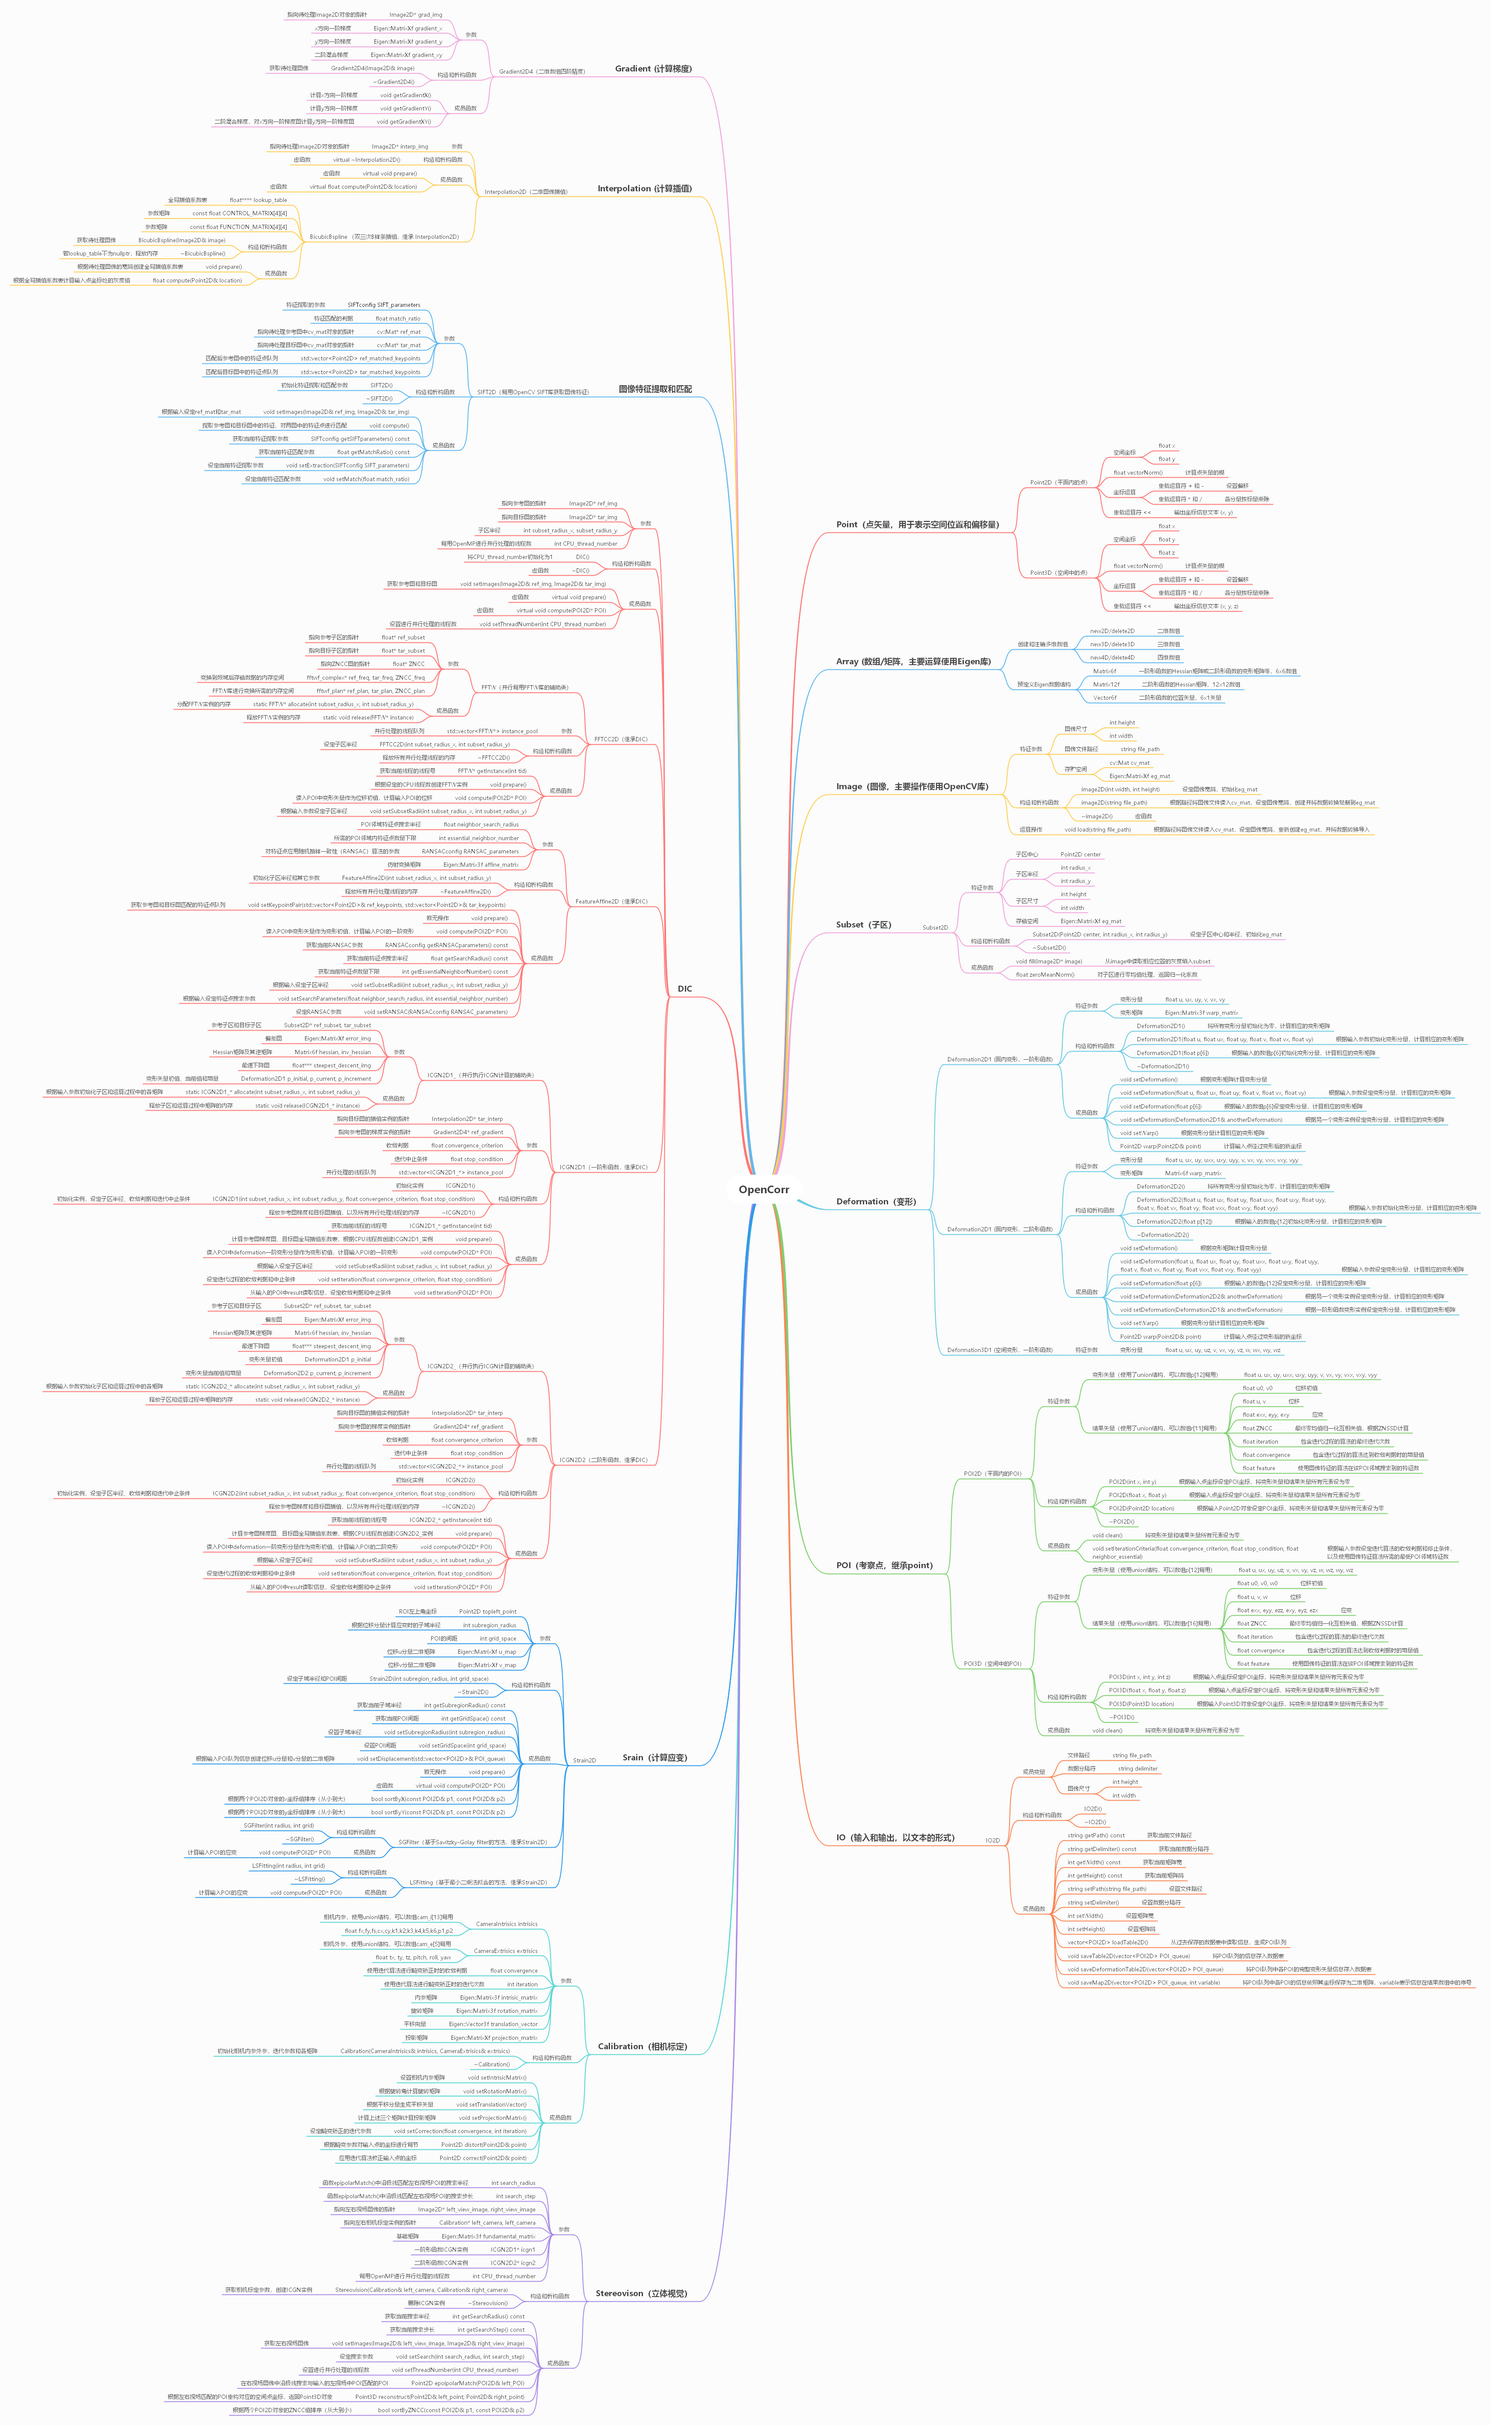
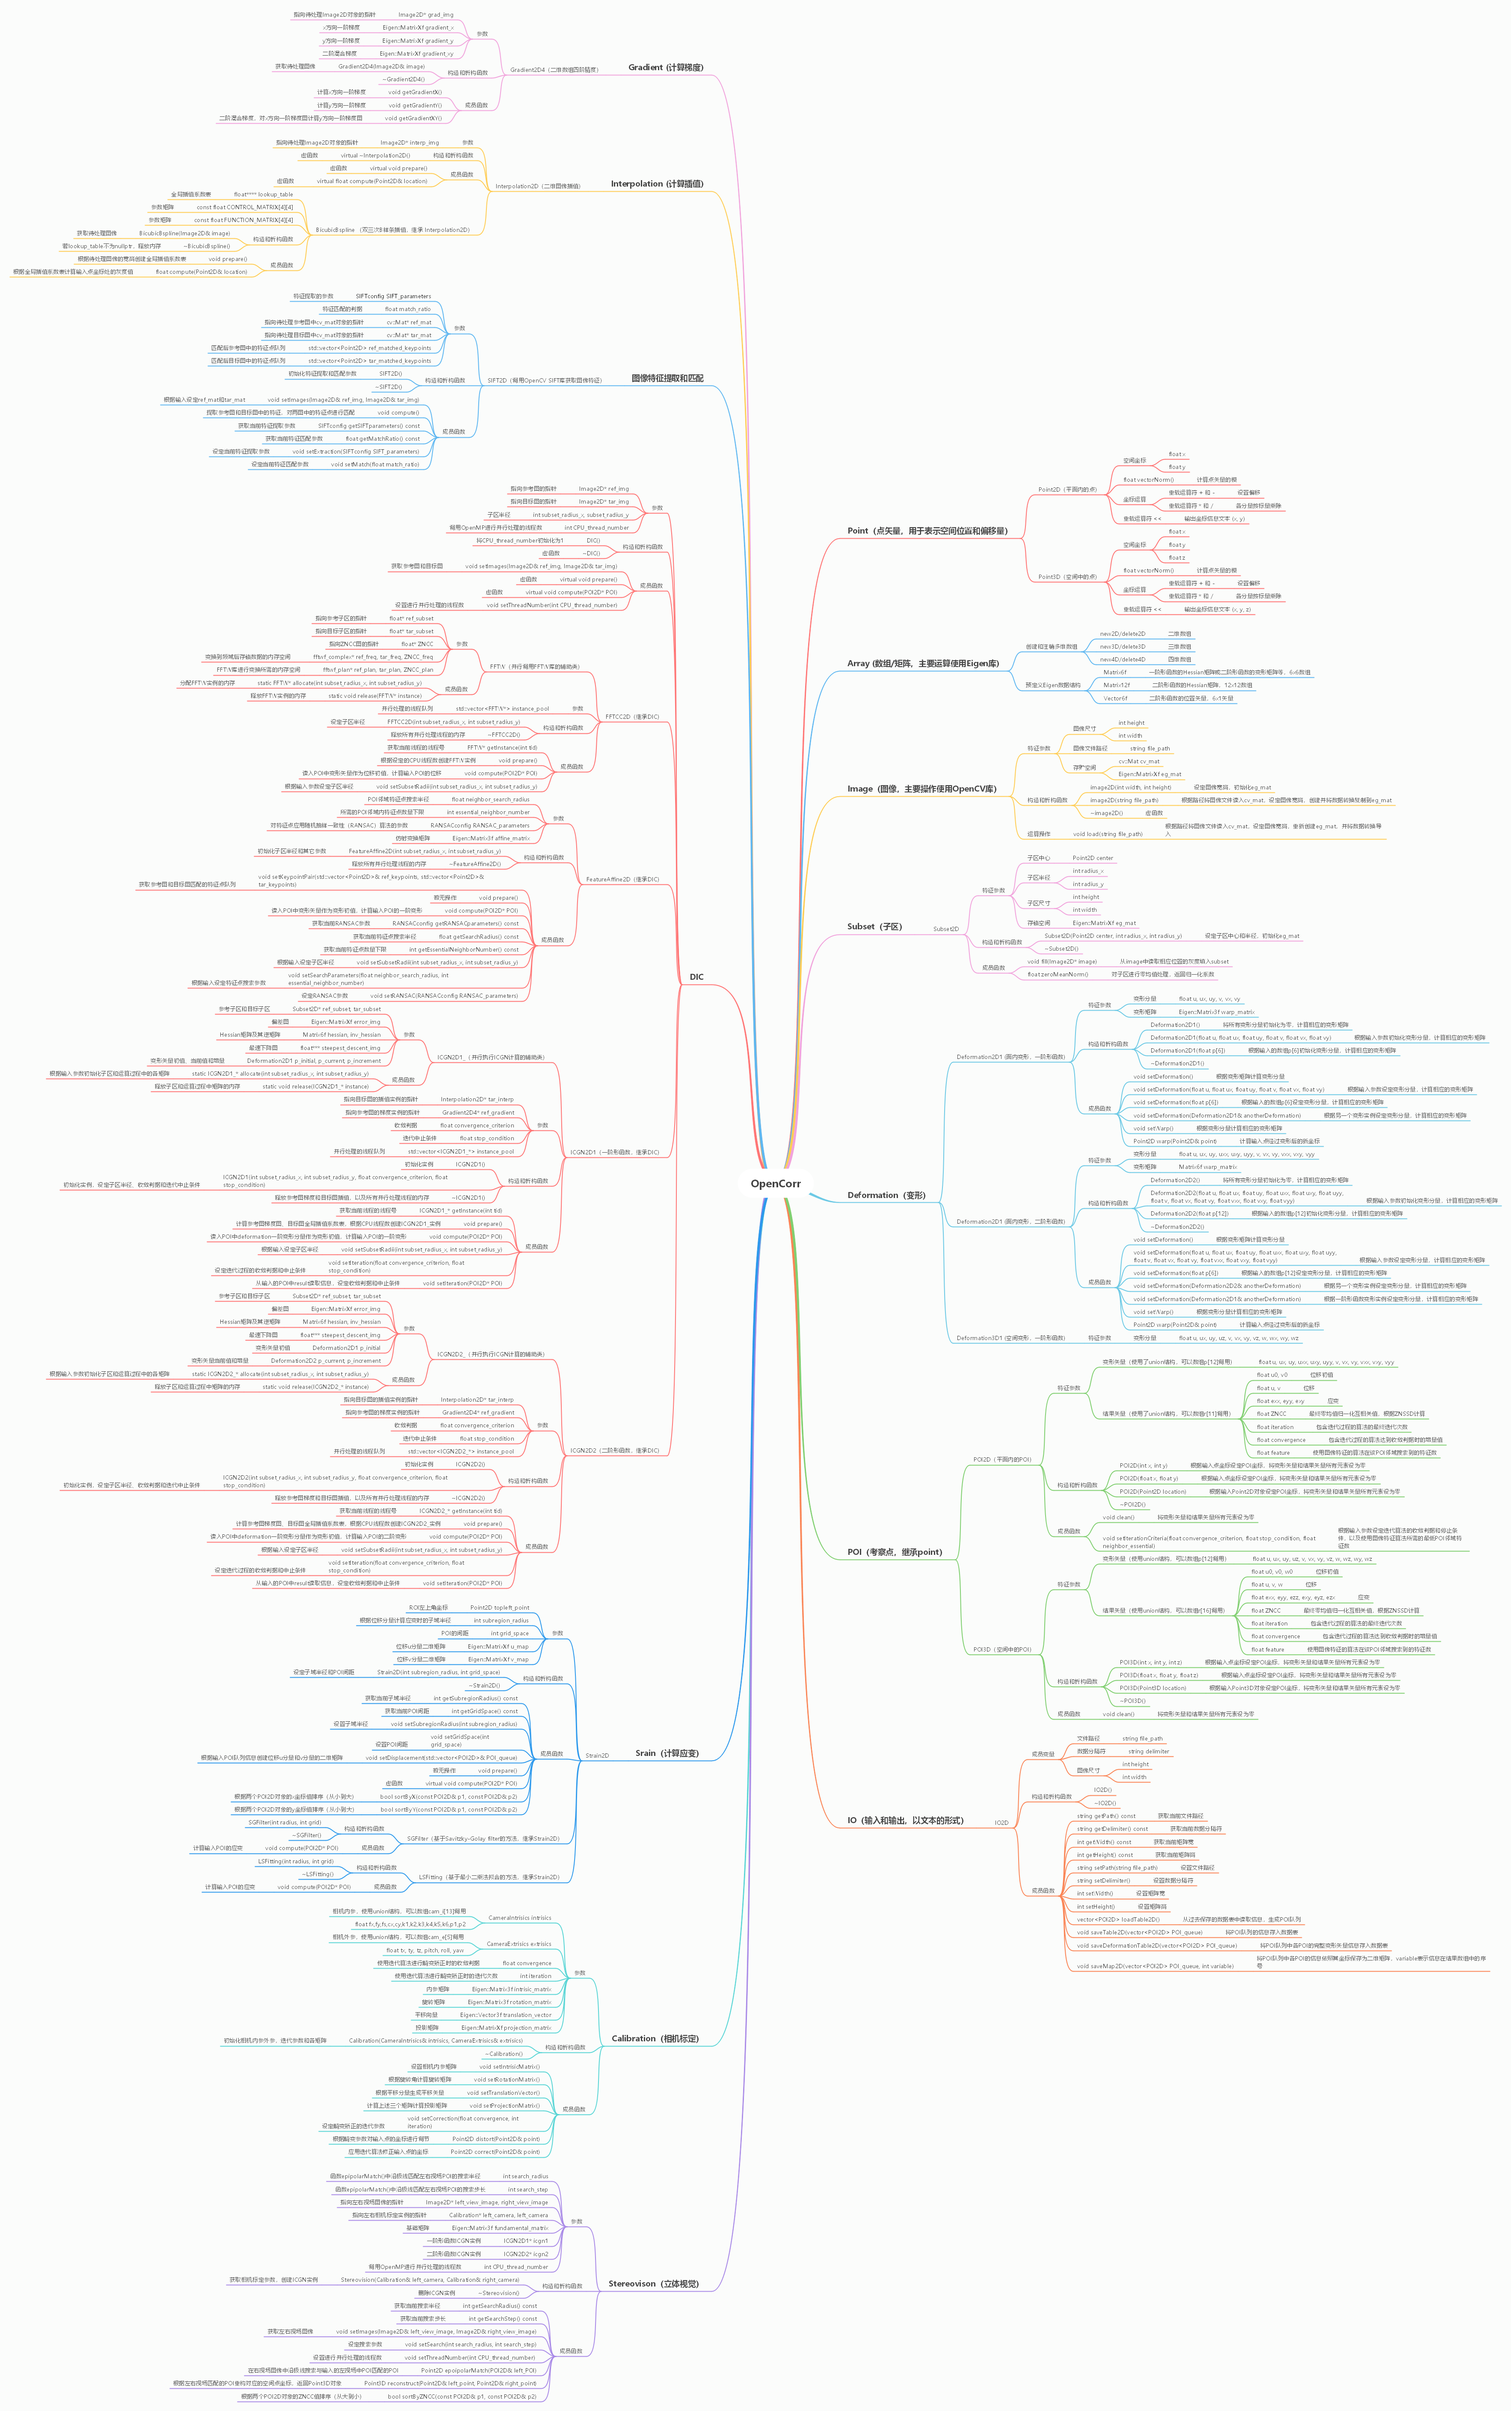
update the module of stereo DIC

diff --git a/src/oc_calibration.cpp b/src/oc_calibration.cpp
@@ -19,11 +19,11 @@
 namespace opencorr
 {
 
-	Calibration::Calibration(CameraIntrisics& intrisics, CameraExtrisics& extrisics) {
-		this->intrisics = intrisics;
-		this->extrisics = extrisics;
+	Calibration::Calibration(CameraIntrinsics& intrinsics, CameraExtrinsics& extrinsics) {
+		this->intrinsics = intrinsics;
+		this->extrinsics = extrinsics;
 
-		this->setIntrisicMatrix();
+		this->setIntrinsicMatrix();
 		this->setRotationMatrix();
 		this->setTranslationVector();
 		this->setProjectionMatrix();
@@ -35,29 +35,29 @@ namespace opencorr
 	Calibration::~Calibration() {
 	}
 
-	void Calibration::setIntrisicMatrix() {
-		this->intrisic_matrix.setIdentity();
-		this->intrisic_matrix(0, 0) = this->intrisics.fx;
-		this->intrisic_matrix(0, 1) = this->intrisics.fs;
-		this->intrisic_matrix(0, 2) = this->intrisics.cx;
-		this->intrisic_matrix(1, 1) = this->intrisics.fy;
-		this->intrisic_matrix(1, 2) = this->intrisics.cy;
-		if (this->intrisic_matrix.isIdentity()) {
-			throw std::exception(std::string("Null intrisics matrix").data());
+	void Calibration::setIntrinsicMatrix() {
+		this->intrinsic_matrix.setIdentity();
+		this->intrinsic_matrix(0, 0) = this->intrinsics.fx;
+		this->intrinsic_matrix(0, 1) = this->intrinsics.fs;
+		this->intrinsic_matrix(0, 2) = this->intrinsics.cx;
+		this->intrinsic_matrix(1, 1) = this->intrinsics.fy;
+		this->intrinsic_matrix(1, 2) = this->intrinsics.cy;
+		if (this->intrinsic_matrix.isIdentity()) {
+			throw std::exception(std::string("Null intrinsics matrix").data());
 		}
 	}
 
 	void Calibration::setRotationMatrix() {
 		cv::Mat cv_rotation_matrix;
-		cv::Mat cv_rotation_vector = (cv::Mat_<float>(3, 1) << this->extrisics.pitch, this->extrisics.roll, this->extrisics.yaw);
+		cv::Mat cv_rotation_vector = (cv::Mat_<float>(3, 1) << this->extrinsics.pitch, this->extrinsics.roll, this->extrinsics.yaw);
 		cv::Rodrigues(cv_rotation_vector, cv_rotation_matrix);
 		cv::cv2eigen(cv_rotation_matrix, this->rotation_matrix);
 	}
 
 	void Calibration::setTranslationVector() {
-		this->translation_vector(0) = this->extrisics.tx;
-		this->translation_vector(1) = this->extrisics.ty;
-		this->translation_vector(2) = this->extrisics.tz;
+		this->translation_vector(0) = this->extrinsics.tx;
+		this->translation_vector(1) = this->extrinsics.ty;
+		this->translation_vector(2) = this->extrinsics.tz;
 	}
 
 	void Calibration::setProjectionMatrix() {
@@ -66,13 +66,13 @@ namespace opencorr
 		RT_mat.block(0, 0, 3, 3) << this->rotation_matrix;
 		RT_mat.col(2) << this->translation_vector;
 
-		this->projection_matrix = this->intrisic_matrix * RT_mat;
+		this->projection_matrix = this->intrinsic_matrix * RT_mat;
 	}
 
 	Point2D Calibration::distort(Point2D& point) {
 		//convert to the physical image coordinates
-		float physical_x = (point.x - this->intrisics.cx - this->intrisics.fs * point.y) / this->intrisics.fx;
-		float physical_y = (point.y - this->intrisics.cy) / this->intrisics.fy;
+		float physical_x = (point.x - this->intrinsics.cx - this->intrinsics.fs * point.y) / this->intrinsics.fx;
+		float physical_y = (point.y - this->intrinsics.cy) / this->intrinsics.fy;
 
 		float physical_xx = physical_x * physical_x;
 		float physical_yy = physical_y * physical_y;
@@ -81,15 +81,15 @@ namespace opencorr
 		float distrotion_r4 = distortion_r2 * distortion_r2;
 		float distortion_r6 = distortion_r2 * distrotion_r4;
 		//radical distortion
-		float distortion_radial = 1 + this->intrisics.k1 * distortion_r2 + this->intrisics.k2 * distrotion_r4 + this->intrisics.k3 * distortion_r6;
+		float distortion_radial = 1 + this->intrinsics.k1 * distortion_r2 + this->intrinsics.k2 * distrotion_r4 + this->intrinsics.k3 * distortion_r6;
 		float distorted_x = physical_x * distortion_radial;
 		float distorted_y = physical_y * distortion_radial;
 		//tangential distortion
-		distorted_x += 2 * this->intrisics.p1 * physical_xy + this->intrisics.p2 * (distortion_r2 + 2 * physical_xx);
-		distorted_y += this->intrisics.p1 * (distortion_r2 + 2 * physical_yy) + 2 * this->intrisics.p2 * physical_xy;
+		distorted_x += 2 * this->intrinsics.p1 * physical_xy + this->intrinsics.p2 * (distortion_r2 + 2 * physical_xx);
+		distorted_y += this->intrinsics.p1 * (distortion_r2 + 2 * physical_yy) + 2 * this->intrinsics.p2 * physical_xy;
 		//convert back to the pixel image coordinates
-		physical_x = distorted_x * this->intrisics.fx + distorted_y * this->intrisics.fx + this->intrisics.cx;
-		physical_y = distorted_y * this->intrisics.fy + this->intrisics.cy;
+		physical_x = distorted_x * this->intrinsics.fx + distorted_y * this->intrinsics.fx + this->intrinsics.cx;
+		physical_y = distorted_y * this->intrinsics.fy + this->intrinsics.cy;
 
 		Point2D corrected_coordinate(physical_x, physical_y);
 		return corrected_coordinate;

diff --git a/src/oc_stereovision.cpp b/src/oc_stereovision.cpp
@@ -46,11 +46,11 @@ namespace opencorr
 	}
 
 	void Stereovision::prepare() {
-		this->left_camera->setIntrisicMatrix();
+		this->left_camera->setIntrinsicMatrix();
 		this->left_camera->setRotationMatrix();
 		this->left_camera->setTranslationVector();
 		this->left_camera->setProjectionMatrix();
-		this->right_camera->setIntrisicMatrix();
+		this->right_camera->setIntrinsicMatrix();
 		this->right_camera->setRotationMatrix();
 		this->right_camera->setTranslationVector();
 		this->right_camera->setProjectionMatrix();
@@ -71,8 +71,8 @@ namespace opencorr
 	}
 
 	void Stereovision::fundementalMatrix() {
-		//creat transposed inverse intrisic matrix of right camera
-		Eigen::Matrix3f right_invK_t = this->right_camera->intrisic_matrix.inverse().transpose();
+		//creat transposed inverse intrinsic matrix of right camera
+		Eigen::Matrix3f right_invK_t = this->right_camera->intrinsic_matrix.inverse().transpose();
 
 		//create an anti-symmetric matrix of translation vector of right camera
 		Eigen::Matrix3f right_t_antisymmetric;
@@ -83,8 +83,8 @@ namespace opencorr
 		//create essential matrix of right camera
 		Eigen::Matrix3f right_E = right_t_antisymmetric * this->right_camera->rotation_matrix;
 
-		//creat inversed intrisic matrix of left camera
-		Eigen::Matrix3f left_K = this->left_camera->intrisic_matrix.inverse();
+		//creat inversed intrinsic matrix of left camera
+		Eigen::Matrix3f left_K = this->left_camera->intrinsic_matrix.inverse();
 
 		this->fundamental_matrix = right_invK_t * right_E * left_K;
 	}

diff --git a/src/oc_calibration.h b/src/oc_calibration.h
@@ -24,7 +24,7 @@
 
 namespace opencorr
 {
-	union CameraIntrisics {
+	union CameraIntrinsics {
 		struct {
 			float fx, fy, fs;
 			float cx, cy;
@@ -34,7 +34,7 @@ namespace opencorr
 		float cam_i[13];
 	};
 
-	union CameraExtrisics {
+	union CameraExtrinsics {
 		struct {
 			float tx, ty, tz;
 			float pitch, roll, yaw;
@@ -45,20 +45,20 @@ namespace opencorr
 	class Calibration
 	{
 	public:
-		CameraIntrisics intrisics;
-		CameraExtrisics extrisics;
+		CameraIntrinsics intrinsics;
+		CameraExtrinsics extrinsics;
 		float convergence;
 		int iteration;
 
-		Eigen::Matrix3f intrisic_matrix; //camera intrisic matrix of camera
+		Eigen::Matrix3f intrinsic_matrix; //camera intrinsic matrix of camera
 		Eigen::Matrix3f rotation_matrix; //camera rotation matrix of camera
 		Eigen::Vector3f translation_vector; //camera translation matrix of camera
 		Eigen::MatrixXf projection_matrix; //projection matrix of camera
 
-		Calibration(CameraIntrisics& intrisics, CameraExtrisics& extrisics);
+		Calibration(CameraIntrinsics& intrinsics, CameraExtrinsics& extrinsics);
 		~Calibration();
 
-		void setIntrisicMatrix();
+		void setIntrinsicMatrix();
 		void setRotationMatrix();
 		void setTranslationVector();
 		void setProjectionMatrix();
